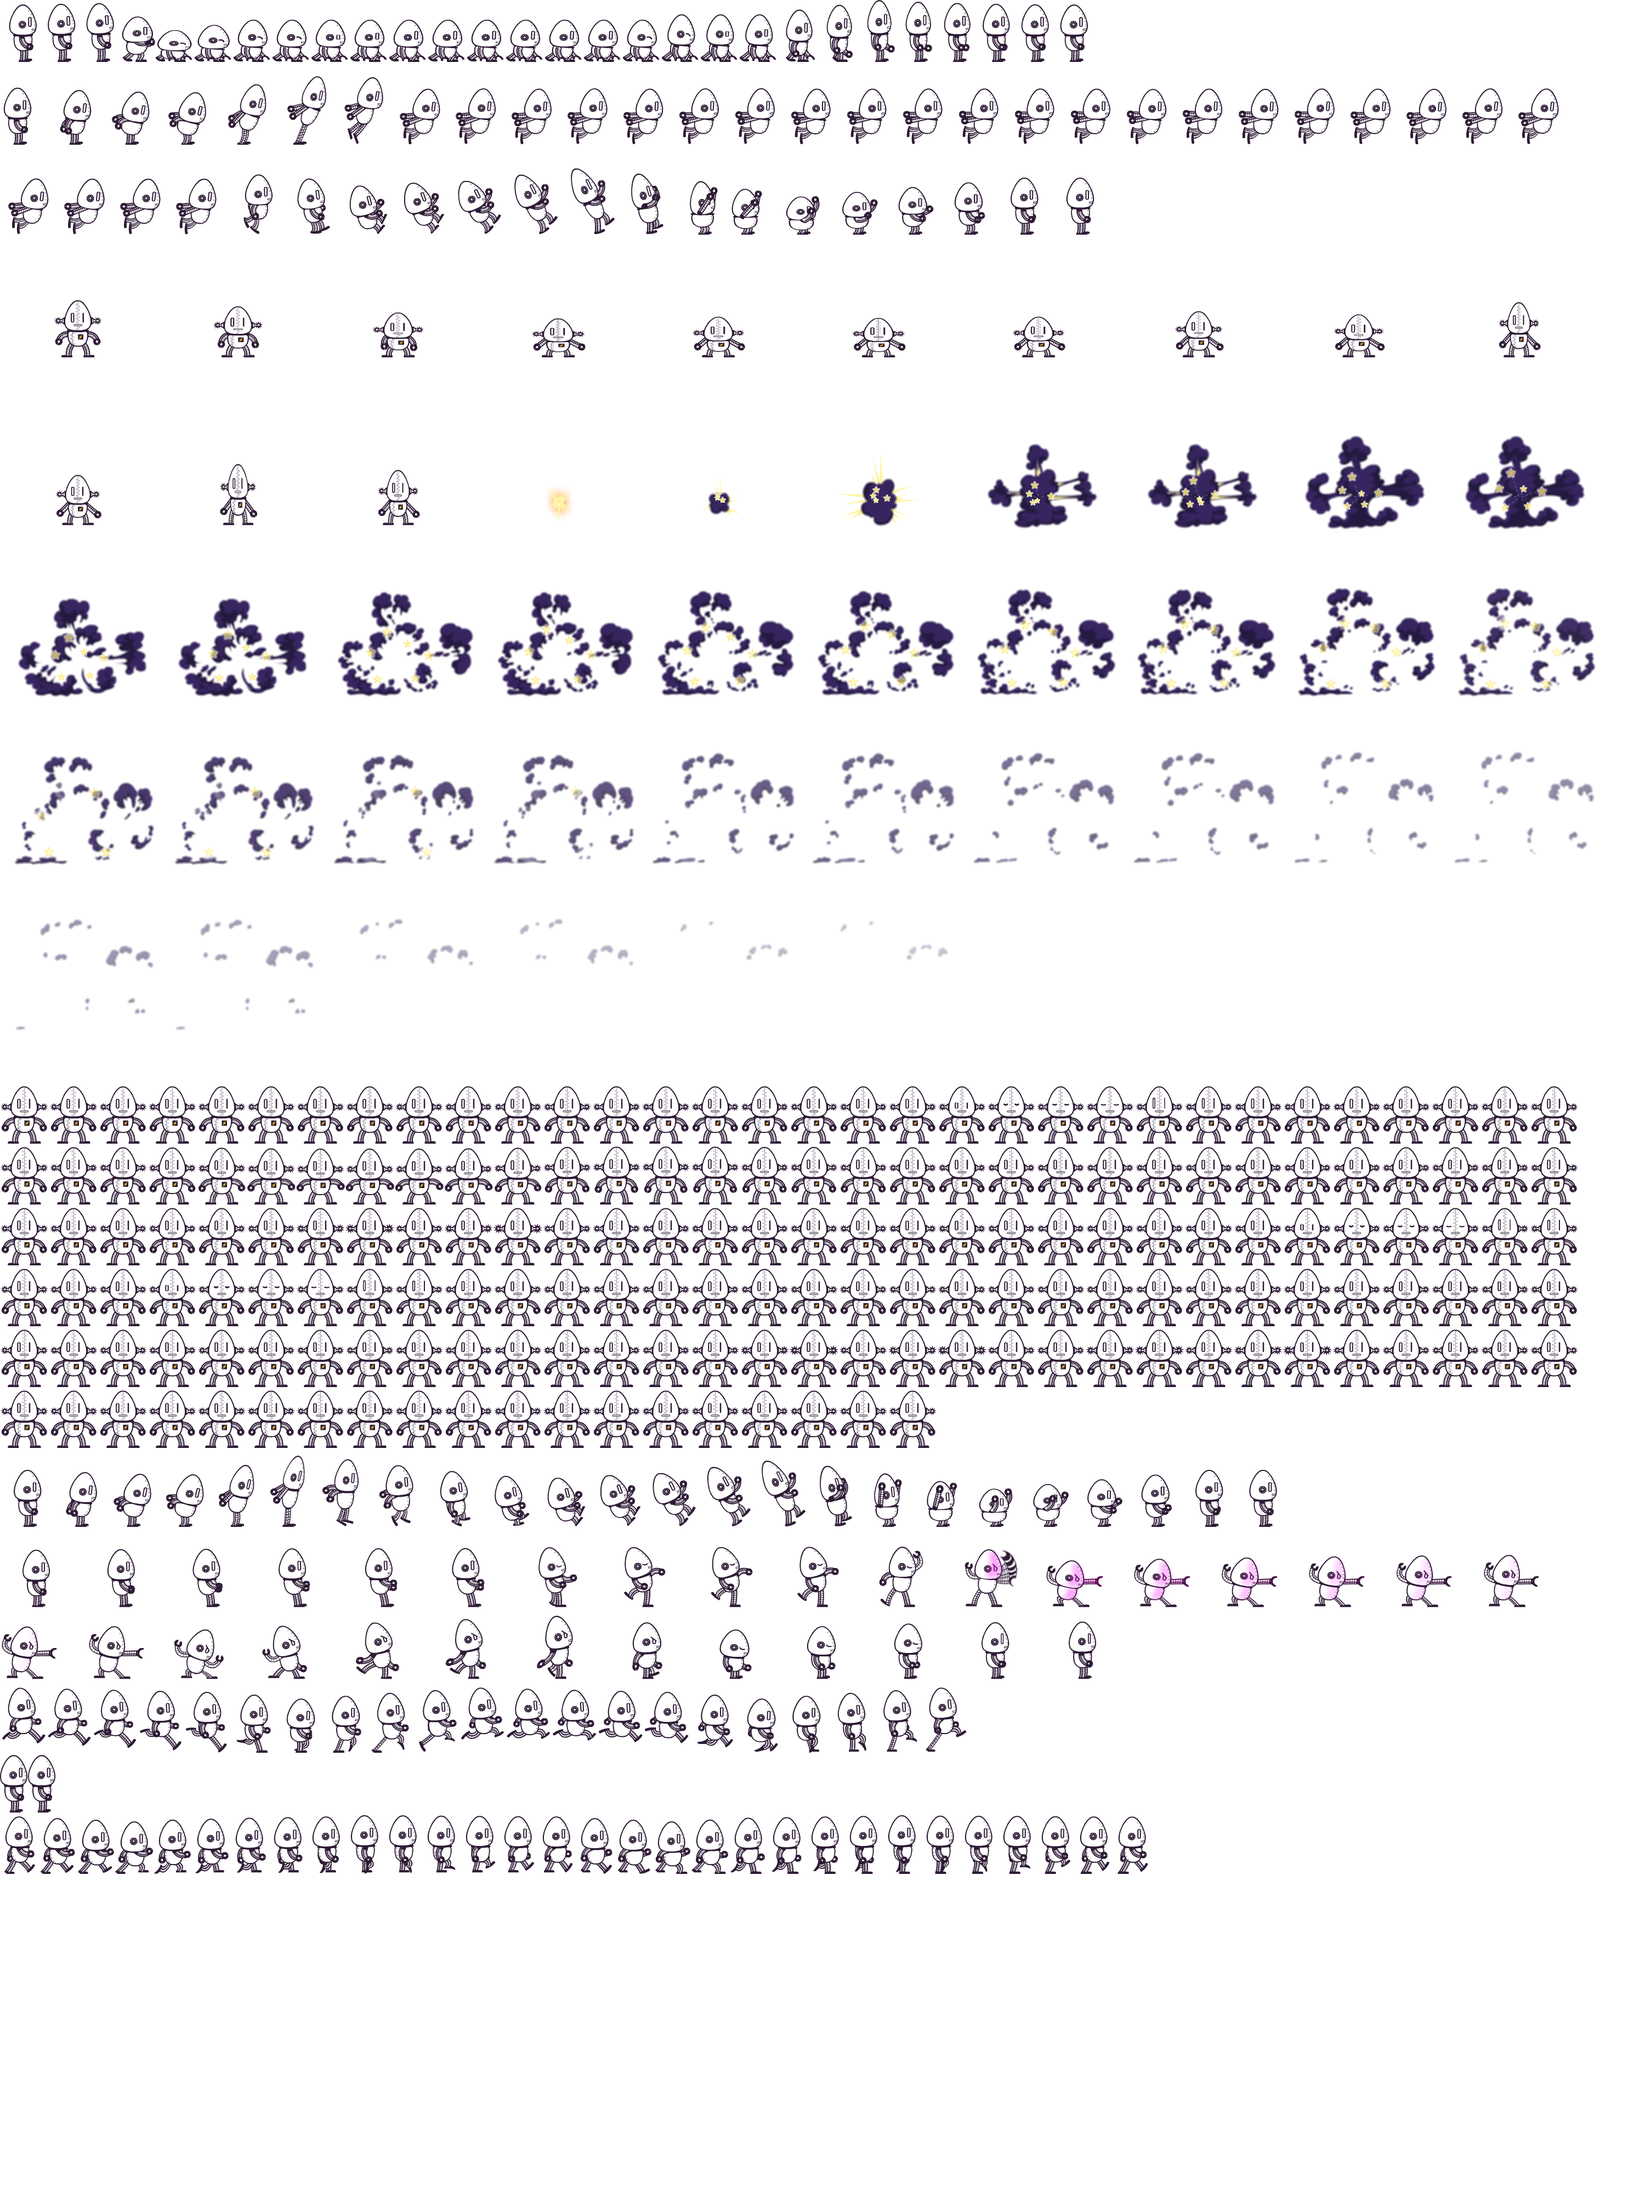
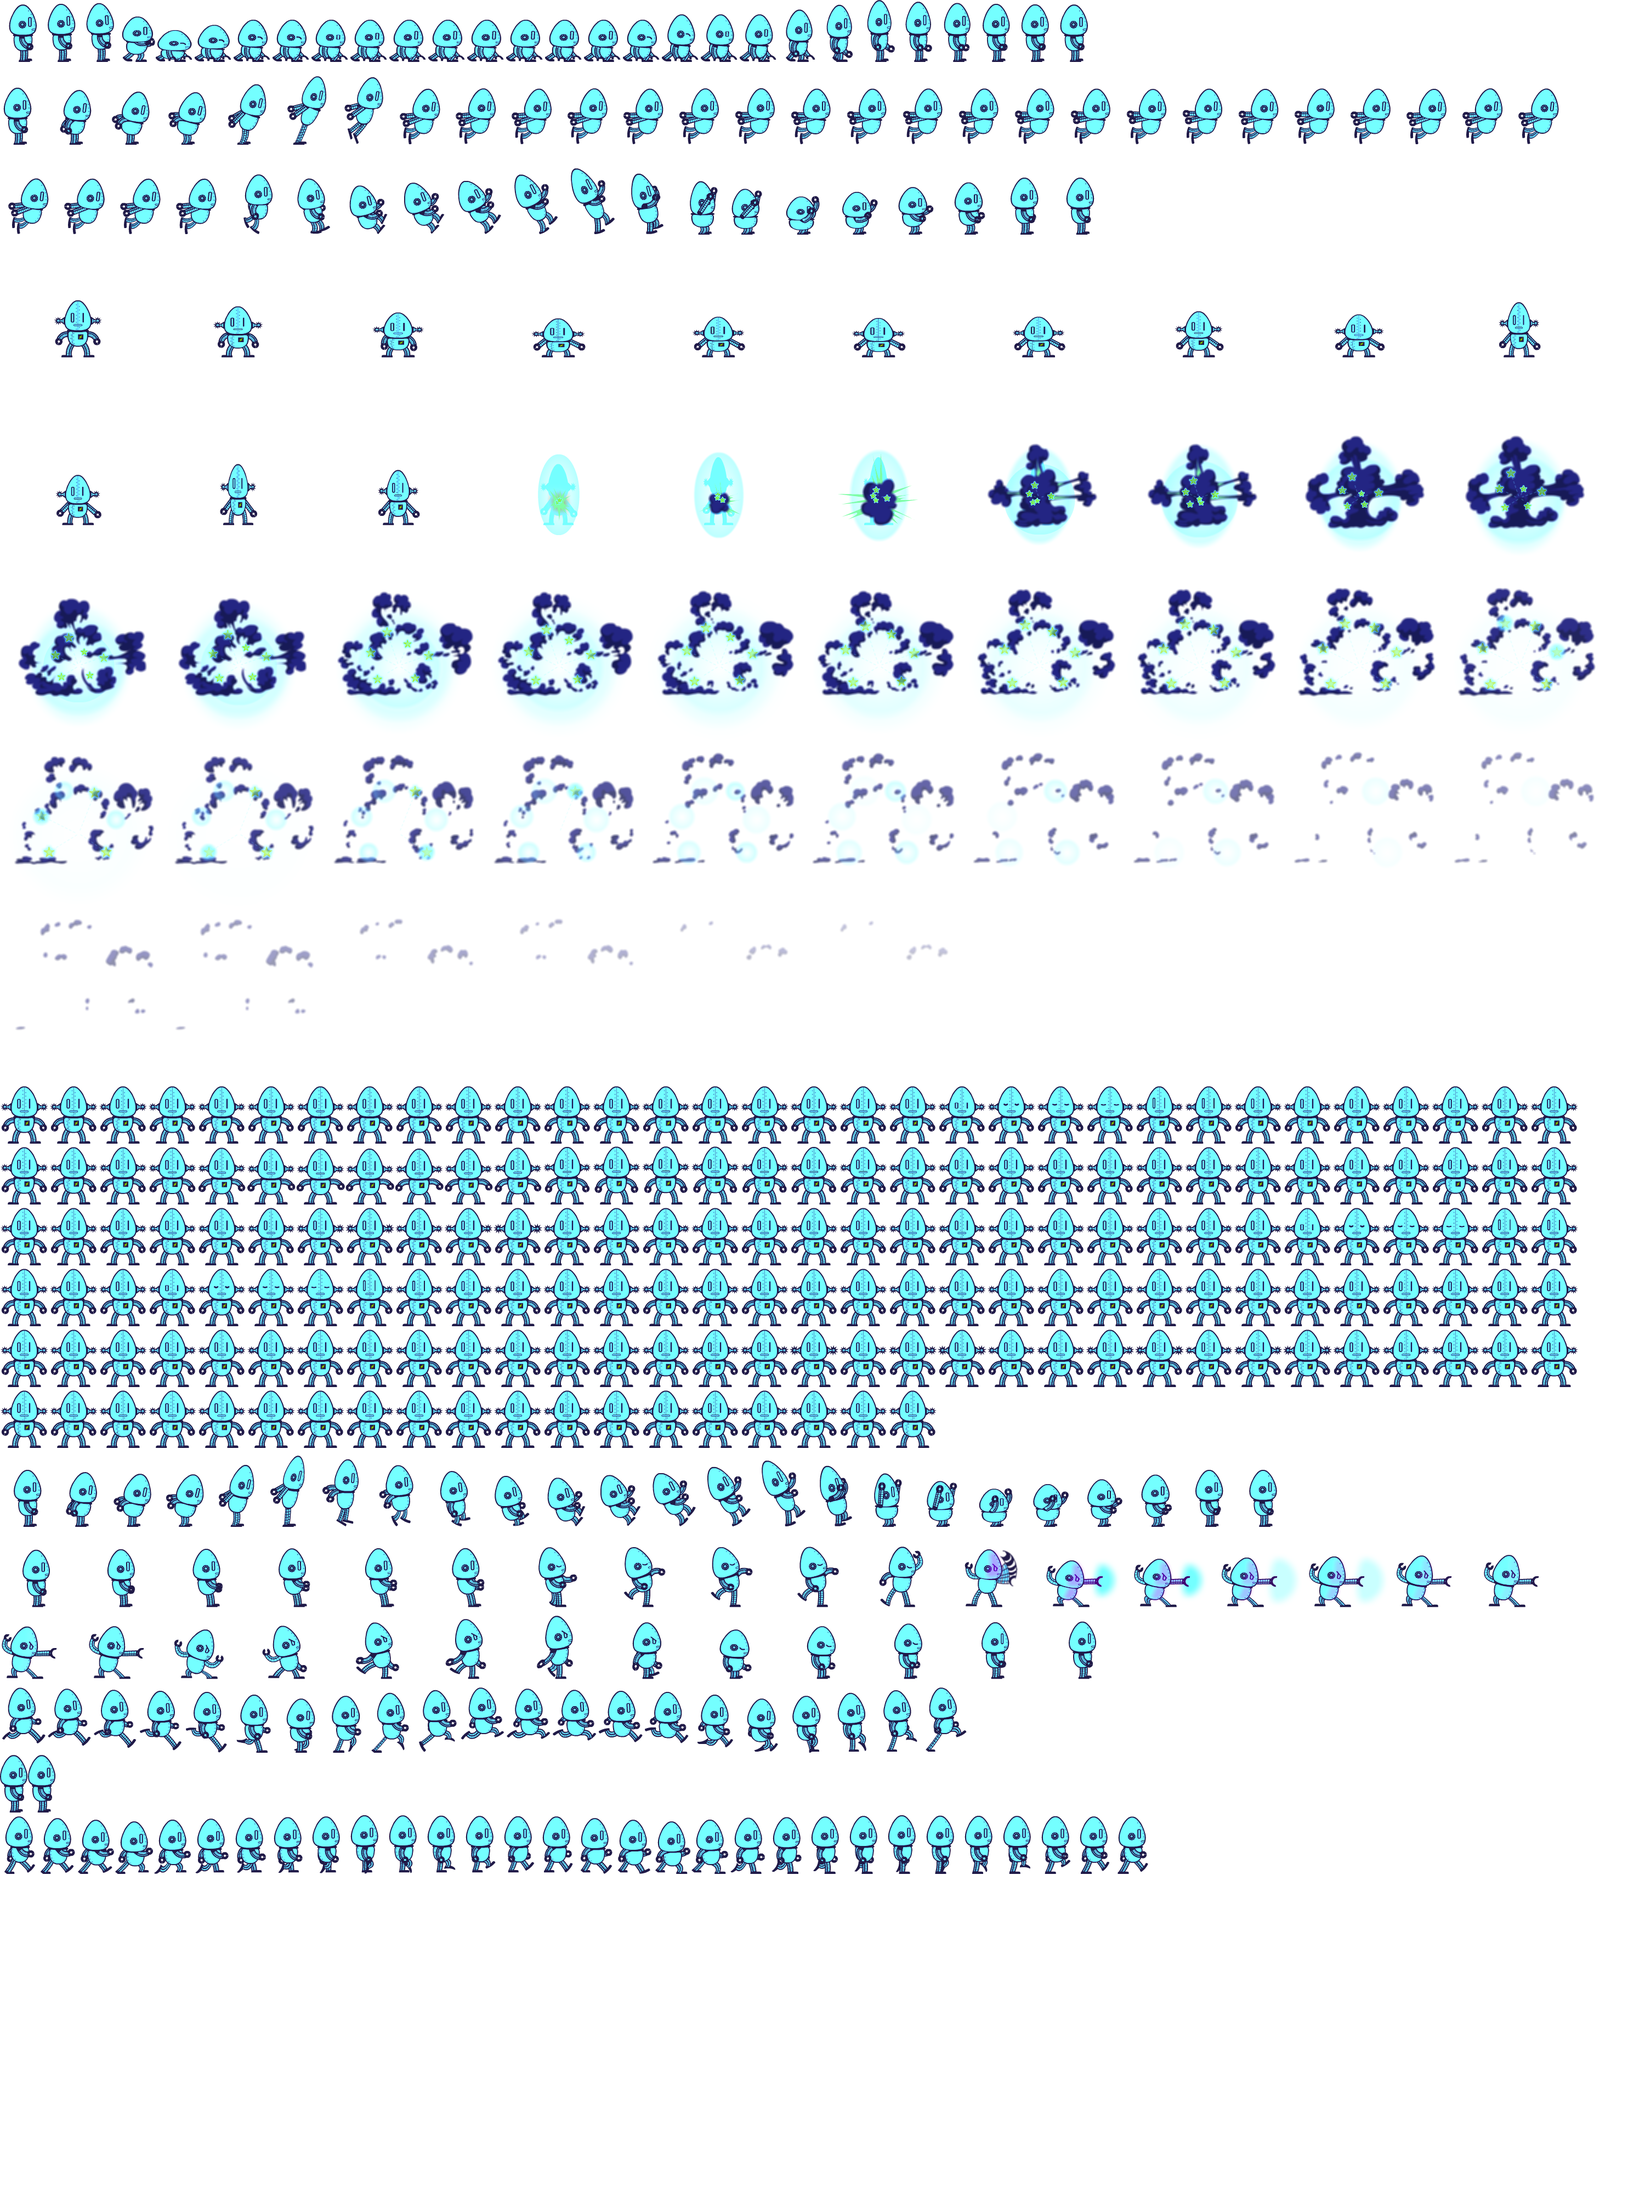
pushing platformer changes

diff --git a/fsd-projects/platformer/platformer.js b/fsd-projects/platformer/platformer.js
@@ -18,32 +18,47 @@ $(function () {
 
     // Create walls - do not delete or modify this code
     createPlatform(-50, -50, canvas.width + 100, 50); // top wall
-    createPlatform(-50, canvas.height - 10, canvas.width + 100, 200, "rgb(118, 0, 233)"); // bottom wall
+    createPlatform(-50, canvas.height - 10, canvas.width + 100, 200, "rgb(225, 195, 255)"); // bottom wall
     createPlatform(-50, -50, 50, canvas.height + 500); // left wall
     createPlatform(canvas.width, -50, 50, canvas.height + 100); // right wall
 
     //////////////////////////////////
     // ONLY CHANGE BELOW THIS POINT //
     //////////////////////////////////
-
+    for (let i = 100; i < canvas.width; i += 100) {
+      createPlatform(i, canvas.height, -1, -canvas.height);
+    }
+    for (let i = 100; i < canvas.height; i += 100) {
+      createPlatform(canvas.width, i, -canvas.width, -1);
+    }
     // TODO 1 - Enable the Grid
      toggleGrid();
 
 
     // TODO 2 - Create Platforms
-    createPlatform(100, 600, 20, 290);
+    createPlatform(100, 620, 20, 290);
     createPlatform(350, 650, 200, 50, "#8e6009");
+    createPlatform(100, 500, 200, 20, "#222222", 100, 400, 2, 200, 500, 3);
+    createBadPlatform(100, 618, 20, 10, "red")
+    createFakePlatform(0, 620, 285, 10);
+
+
+
+     for(var i = 500; i >=0; i-=5){
+      createPlatform(700, i + 500, i, 10);
+     }
 
 
 
     // TODO 3 - Create Collectables
-    createCollectable('database' ,200, 300, 0.5, 0.9999)
+    createCollectable('star' ,700, 200, 0.5, 0.9999)
 
 
     
     // TODO 4 - Create Cannons
-
-
+    createCannon("top", 700, 1000);
+    createCannon('top', 700, 1100)
+    createCannon("top", 700, 1200);
     
     
     //////////////////////////////////

diff --git a/fsd-projects/platformer/setup.js b/fsd-projects/platformer/setup.js
@@ -2,7 +2,7 @@
 const walkAcceleration = 2.5; // how much is added to the speed each frame
 const gravity = 0.5; // how much is subtracted from speedY each frame
 const friction = 1.5; // how much the player is slowed each frame
-const maxSpeed = 8; // maximum horizontal speed, not vertical
+const maxSpeed = 9; // maximum horizontal speed, not vertical
 const playerJumpStrength = 12; // this is subtracted from the speedY each jump
 const projectileSpeed = 8; // the speed of projectiles
 let shouldDrawGrid = false;
@@ -81,8 +81,8 @@ const cannonHeight = 80;
 let projectiles = [];
 const defaultProjectileWidth = 24;
 const defaultProjectileHeight = defaultProjectileWidth;
-const collectableWidth = 40;
-const collectableHeight = 80;
+const collectableWidth = 100;
+const collectableHeight = 100;
 let collectables = [];
 
 // canvas and context variables; must be initialized later
@@ -102,4 +102,7 @@ var collectableList = {
   kennedi: { image: "images/collectables/kennedi-head.png" },
   max: { image: "images/collectables/max-head.png" },
   steve: { image: "images/collectables/steve-head.png" },
+  coin: { image: "images/collectables/coin.png" },
+  soccer: { image: "images/collectables/soccer.png" },
+  star: { image: "images/collectables/star.png" },
 };

diff --git a/fsd-projects/platformer/helpers.js b/fsd-projects/platformer/helpers.js
@@ -597,18 +597,18 @@ function drawCollectables() {
       );
     } else {
       //draw the icons at the top if collected
-      if (collectables[i].alpha > 0.4) {
-        collectables[i].alpha = collectables[i].alpha - 0.007;
-      }
-      ctx.globalAlpha = collectables[i].alpha;
-      ctx.drawImage(
-        collectables[i].image,
-        200 + 100 * i,
-        10,
-        collectableWidth,
-        collectableHeight
-      );
-      ctx.globalAlpha = 1;
+      // if (collectables[i].alpha > 0.4) {
+      //   collectables[i].alpha = collectables[i].alpha - 0.007;
+      // }
+      // ctx.globalAlpha = collectables[i].alpha;
+      // ctx.drawImage(
+      //   collectables[i].image,
+      //   200 + 100 * i,
+      //   10,
+      //   collectableWidth,
+      //   collectableHeight
+      // );
+      // ctx.globalAlpha = 1;
     }
 
     // Horizontal movement logic for collectables

diff --git a/fsd-projects/platformer/platformer.css b/fsd-projects/platformer/platformer.css
@@ -8,7 +8,7 @@ body {
 }
 
 canvas {
-  background-color: rgb(99, 198, 231);
+  background-color: rgb(141, 199, 143);
   margin: 20px;
   border-radius: 15px;
   border: 5px solid rgba(118, 0, 233, 0.375);
@@ -24,5 +24,6 @@ h1{
   left: 600px;
   font-family: Comic Sans MS;
   color: white;
+  user-select: none;
 }
 
